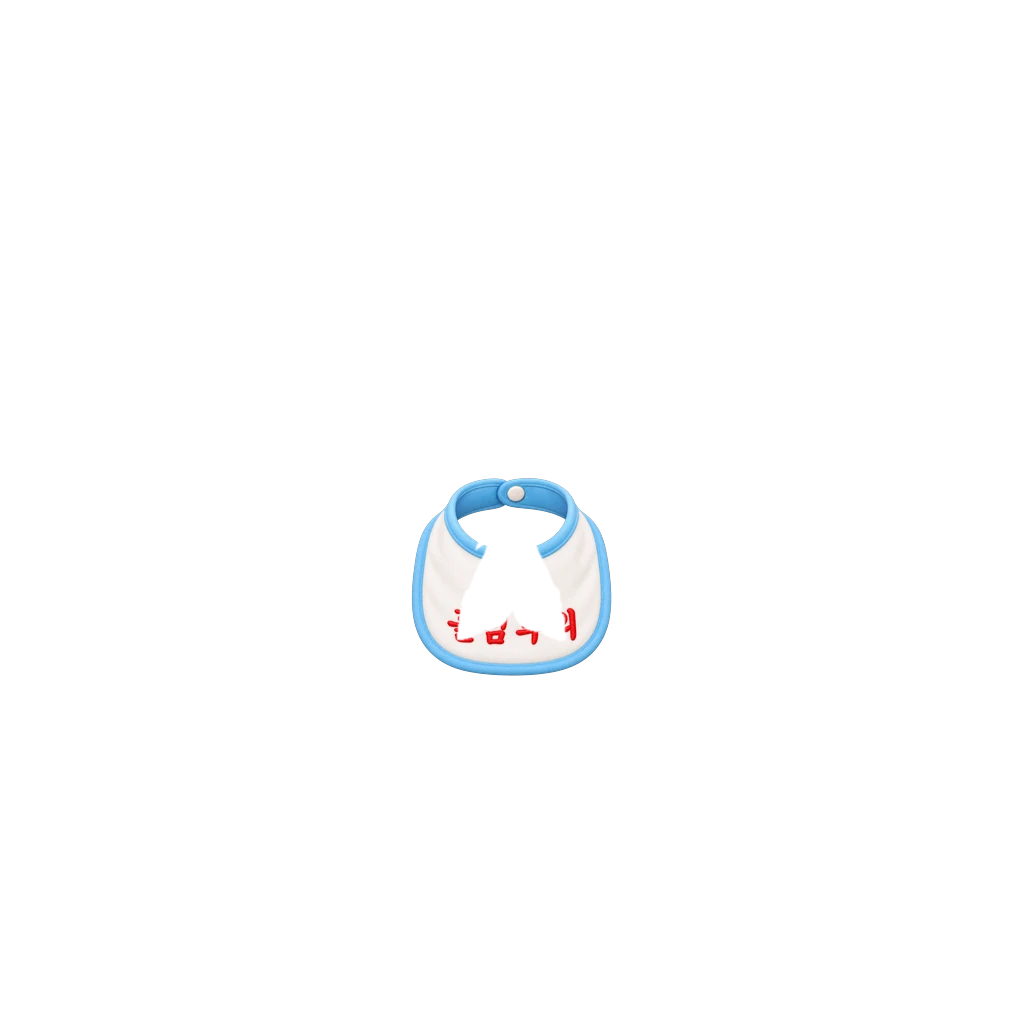
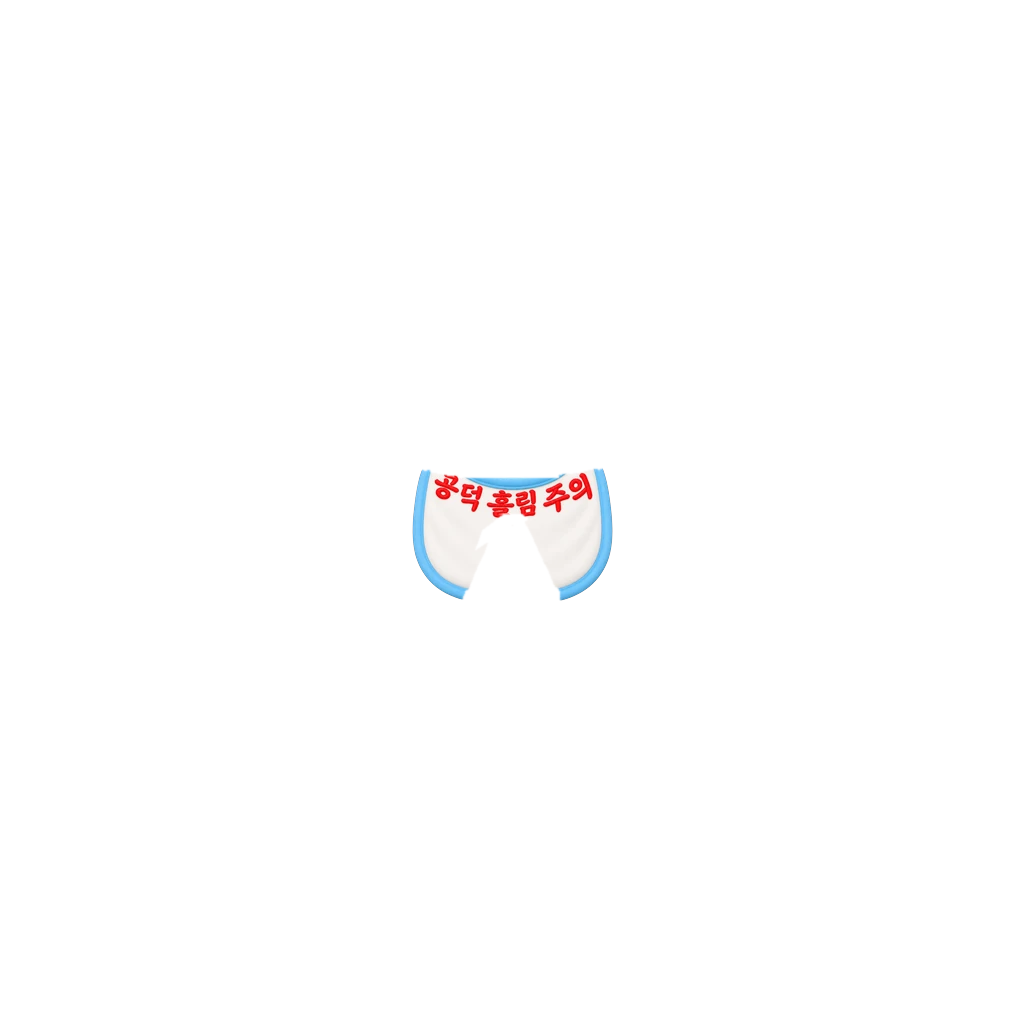
꾸미기: 턱받이 문구를 손 위로 올리고 뒤쪽 목둘레를 턱 뒤로 숨긴다
문구가 합장한 손에 가려 「흘림 주의」만 보였다. 문구를 위쪽 띠에 크게
넣은 v2 그림으로 바꾸고, 그 때문에 턱 위로 올라온 뒤쪽 목둘레는 새 숨길
곳 "chin"(목 자르는 줄 위의 살)으로 지운다.

Changed region(s): [[0.375, 0.4375, 0.625, 0.6875]]

diff --git a/tools/build_avatar_assets.py b/tools/build_avatar_assets.py
@@ -131,7 +131,8 @@ OVERLAYS = {
 #   콧수염    폭(824)을 130px로 맞추고 원본 기준점을 낮춰 아래 끝이 y=392에서 끝나게 한다
 #   막대사탕  지름 110px면 눈에 닿아 90px로 줄이고 입보다 5px 낮춰 사탕 위가 y≈358에 온다
 #   금니 웃음 전체 폭(776)을 70px로 맞춰 원래 입선을 빠짐없이 덮는다
-#   턱받이    전체 폭(850)을 200px로 맞춰 목에서 가슴 위로 내리고 손 뒤로 숨긴다
+#   턱받이    v2: 문구를 위쪽 띠로 올린 그림. 폭 200px, 문구가 손끝 위에 다 보이게
+#             올리고, 턱 위로 올라온 뒤쪽 목둘레는 턱 뒤로 숨긴다("chin")
 #   목베개    전체 폭(840)을 220px로 맞춰 턱 바로 밑(y 505)에 걸고 손 뒤로 숨긴다.
 #             더 내리면 가슴에 떠서 손 앞을 가리고, 더 올리면 입선을 덮는다
 #   꽃목걸이  전체 폭(684)을 215px로 맞춰 가슴까지 내리고 손 뒤로 숨긴다.
@@ -171,7 +172,7 @@ PLACED = {
     "mouth_mustache": ("mouth", 130 / 824, (627, 704), (510, 380), ()),
     "mouth_lollipop": ("mouth", 90 / 480, (164, 632), (510, 405), ()),
     "mouth_grillz": ("mouth", 70 / 776, (627, 667), (510, 400), ()),
-    "acc_bib": ("neck", 200 / 850, (627, 250), (512, 478), ("hands",)),
+    "acc_bib": ("neck", 200 / 962, (632, 544), (512, 484), ("hands", "chin")),
     "acc_neckpillow": ("neck", 220 / 840, (627, 700), (512, 505), ("hands",)),
     "acc_lei": ("neck", 215 / 684, (635, 205), (512, 472), ("hands",)),
     "acc_goldchain": ("neck", 180 / 953, (626.5, 488), (512, 460), ("hands",)),
@@ -349,7 +350,11 @@ def body_masks(character: Character = REFERENCE):
     ImageDraw.Draw(outline).polygon(list(character.hand_outline), fill=255)
     hands = ImageChops.multiply(skin.filter(ImageFilter.MaxFilter(3)), outline)
     hands = hands.filter(ImageFilter.GaussianBlur(0.8))
-    return {"robe": robe, "hands": hands, "skin": skin}
+    # 턱 = 목 자르는 줄보다 위의 살. 목에 두르는 것의 뒤쪽 목둘레는 턱 뒤로 간다.
+    chin = skin.copy()
+    chin.paste(0, (0, character.neck_cut_y, CANVAS, CANVAS))
+    chin = chin.filter(ImageFilter.GaussianBlur(0.8))
+    return {"robe": robe, "hands": hands, "skin": skin, "chin": chin}
 
 
 def hide(layer: Image.Image, mask: Image.Image) -> Image.Image:

diff --git a/.claude/skills/avatar-parts/SKILL.md b/.claude/skills/avatar-parts/SKILL.md
@@ -31,7 +31,7 @@ $bucheo-avatar-parts 로 발주서 {N}차({슬롯} {개수}종)를 진행해 주
 |---|---|
 | 얼굴 | 비니 쓴 머리 위에서도 합성. 백호(이마 가운데 점)를 가리지 않는지. 한쪽 눈만 덮는 것은 베이스 기준점이 그 눈 |
 | 입 | 입술·피부를 그리지 않았는지(재질을 입으면 둘레만 살빛으로 남는다). 선글라스 아래 테와 부딪히는지. 핑크 재질 흉내 합성. `popped:`는 풍선껌 전용 |
-| 목 | 합장한 손 **앞**이 아니라 뒤로 지나가는지(`"hands"`). 펜던트가 손끝 y 514 위. 목에 거는 물건을 얼굴 피하려고 가슴까지 내리지 말 것(목베개가 손 앞에 떠 있었다). 기존 그림의 색 변형은 GPT로 다시 그리지 말고 PIL로 — 흰·회색 부분은 색상 회전으로 안 바뀌니 밝기를 살려 물들인다 |
+| 목 | 합장한 손 **앞**이 아니라 뒤로 지나가는지(`"hands"`). 펜던트가 손끝 y 514 위. 목에 거는 물건을 얼굴 피하려고 가슴까지 내리지 말 것(목베개가 손 앞에 떠 있었다). 기존 그림의 색 변형은 GPT로 다시 그리지 말고 PIL로 — 흰·회색 부분은 색상 회전으로 안 바뀌니 밝기를 살려 물들인다. 목둘레가 턱 위로 올라오면 `"chin"`으로 턱 뒤로 숨긴다 |
 | 발 | 가사 5종 모두에서 밑단이 신발을 덮는지. 밑창 아래로 어두운 띠(`SHOE_GAP_SHADOW`)가 보이면 신발이 너무 높다. 발 비침 빌드 검사를 느슨하게 바꾸지 말 것 |
 | 대좌 | 발바닥 아래 캔버스가 약 100px — 아래로 잘리지 않는지. 대좌는 몸 뒤 |
 | 후광 | 모자를 써도 보이는지. 움직임(회전)은 넣지 말고 멈춘 그림까지 |

diff --git a/.codex/skills/bucheo-avatar-parts/SKILL.md b/.codex/skills/bucheo-avatar-parts/SKILL.md
@@ -38,7 +38,7 @@ description: bucheo_handsome 저장소(C:\src\bucheo_handsome)에서 docs/커스
 - `kWardrobe`: 해당 슬롯 묶음 끝에 발주서의 id·이름·공덕으로.
 - 굽기: `python tools/build_avatar_assets.py` → (머리·가사면 `python tools/make_avatar_skins.py`) → `python tools/make_avatar_thumbs.py`
 - 빌드의 검사(발 비침, 비침 400px, `MIN_BODY_SKIN` 등)에 걸리면 값이나 그림을 고친다. **검사 기준을 바꾸지 않는다.**
-- 목에 거는 물건은 얼굴을 피하려고 가슴까지 내리지 않는다(턱 밑에 걸치고 손 뒤로). 발은 밑창 아래로 `SHOE_GAP_SHADOW` 어두운 띠가 보이면 신발이 너무 높은 것이다.
+- 목에 거는 물건은 얼굴을 피하려고 가슴까지 내리지 않는다(턱 밑에 걸치고 손 뒤로). 뒤쪽 목둘레가 턱 위로 올라오면 숨길 곳에 `"chin"`을 넣는다. 발은 밑창 아래로 `SHOE_GAP_SHADOW` 어두운 띠가 보이면 신발이 너무 높은 것이다.
 
 ## 3. 검증
 

diff --git a/docs/부처님_리소스_파이프라인.md b/docs/부처님_리소스_파이프라인.md
@@ -199,6 +199,7 @@ PLACED = {
 | `"hands"` | 합장한 두 손 (`HAND_OUTLINE` 다각형 ∩ 살) | 헤드폰 컵, 금빛 단주 |
 | `"band"` | 헤드폰 원본의 밴드 (`BAND` 다각형, 원본 좌표) | 헤드폰 — 밴드는 목 뒤로 |
 | `"robe"` | 가사 영역 (가사 원본끼리 다른 픽셀) | 운동화 — 밑단이 신발 위를 덮는다 |
+| `"chin"` | 목 자르는 줄(y 478)보다 위의 살 = 턱 | 턱받이 — 턱 위로 올라온 뒤쪽 목둘레가 턱 뒤로 간다 |
 
 - 가사 영역에는 발가락 윤곽선과 밑단 아래 발등 그림자도 섞여 잡힌다(가사마다 그림자 색이 조금씩 달라서다). 그대로 쓰면 그 자리 신발이 지워져 발가락이 비친다. 열림 연산으로 가는 선을 걸러 내고 안쪽으로 7px 더 깎아서, 신발이 밑단 아래로 살짝 파고들게 한다.
 - 손 영역을 사각형으로 잡으면 맨살인 왼쪽 가슴까지 들어가 헤드폰 컵에 구멍이 난다. 반드시 손 윤곽을 따른다.
